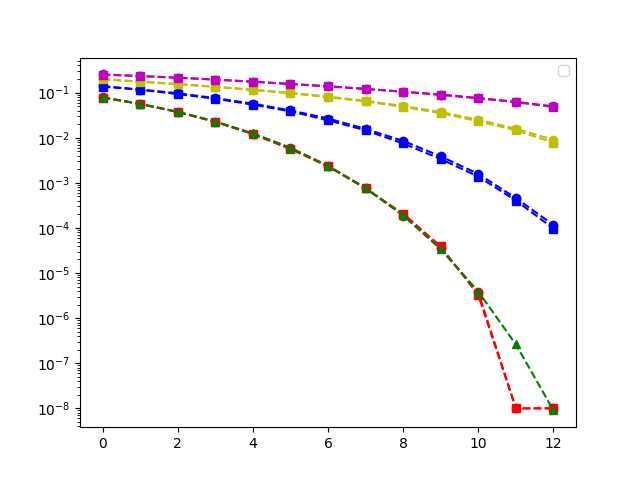
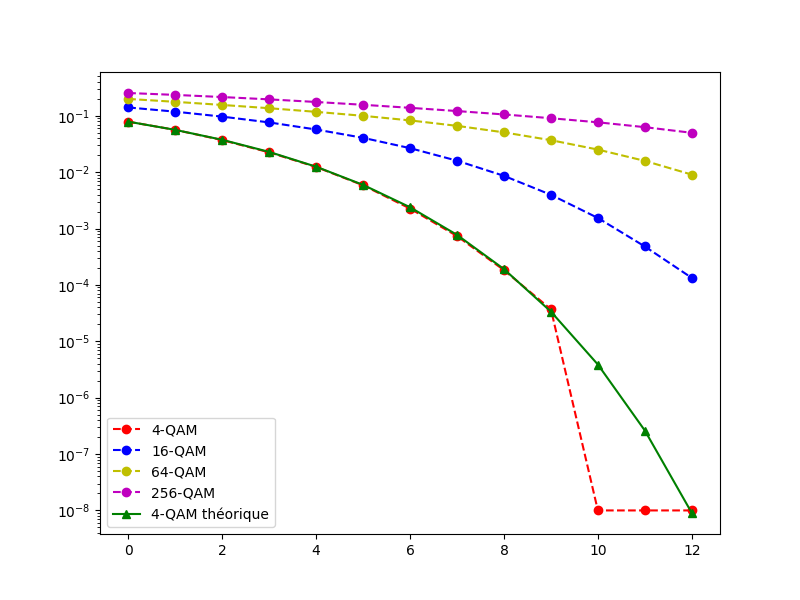
correction de bug, nouvelle simu et courbe

diff --git a/script.py b/script.py
@@ -14,7 +14,6 @@ github : https://github.com/AxFrancois/Numeric-Comm
 import math
 import sys
 import os
-import time
 import multiprocessing as mp
 import random
 
@@ -30,7 +29,7 @@ from scipy import special
 
 from header_tp_eti import bitstring_to_bytes_p3
 
-mysem = mp.Semaphore(1)
+mysem = mp.Semaphore(0)
 valempirique = mp.Array('f', range(13))  # []
 valempirique2 = mp.Array('f', range(13))  # []
 
@@ -228,6 +227,7 @@ def modulation_demodulation(codewords, h_enc_array, cyccode, valempirique, valem
             for i in range(len(M)):
                 modem = mod.QAMModem(M[i])
                 modulated = modem.modulate(code_test[j])
+                print("Calculs pour M = {}...".format(M[i]))
                 for isnr in EbSurN0:
                     pid = os.fork()
                     if pid == 0:  # Processus Fils
@@ -264,10 +264,6 @@ def modulation_demodulation(codewords, h_enc_array, cyccode, valempirique, valem
                             proba2 = result2[1]/len(demodulated) + 1e-8
                             # valempirique2.append(proba2)
                             valempirique2[isnr] = proba2
-                            print("Taux d'erreur sur une modulation avec M = {} et un Eb/N0 = {} : {} %".format(
-                                M[i], isnr, round(proba*100, 10)))
-                            print("Taux d'erreur après décodage cyclique : {} %".format(
-                                round(proba2*100, 10)))
                         else:
                             # valempirique2.append(proba)
                             valempirique2[isnr] = proba
@@ -277,15 +273,18 @@ def modulation_demodulation(codewords, h_enc_array, cyccode, valempirique, valem
                     mysem.acquire()
                 if j == 0:
                     plt.figure(1)
-
                     data1 = [i for i in valempirique]
+                    for index in range(len(data1)):
+                        print("Taux d'erreur sur une modulation avec M = {} et un Eb/N0 = {} : {} %".format(
+                            M[i], index, round(data1[index]*100, 10)))
+                        print("Taux d'erreur après décodage cyclique : {} %".format(
+                            round(valempirique2[index]*100, 10)))
                     plt.plot(EbSurN0, data1,
                              colors[i], label="{}-QAM".format(M[i]))
                     mylabel = "avec"
                 else:
                     mylabel = "sans"
                 plt.figure(2)
-
                 data2 = [i for i in valempirique2]
                 plt.plot(EbSurN0, data2, colors[(
                     j+1)*4+i], label="{}-QAM {} cycccode".format(M[i], mylabel))
@@ -294,7 +293,7 @@ def modulation_demodulation(codewords, h_enc_array, cyccode, valempirique, valem
         valtheorique = []
         for value in EbSurN0:
             valtheorique.append(1/2 * special.erfc(math.sqrt(10**(value/10))))
-        print(valtheorique)
+        print("4-QAM théorique : ", valtheorique)
         plt.figure(1)
         plt.plot(EbSurN0, valtheorique, 'g^-', label="4-QAM théorique")
         plt.legend(loc="lower left")
@@ -361,13 +360,19 @@ re-use it under the terms of the Project Gutenberg License included
 with this eBook or online at www.gutenberg.net
 """
 
-source_encode_decode(txt, valempirique, valempirique2, True,  True)
+returned_txt = source_encode_decode(
+    txt, valempirique, valempirique2, True,  True)
 
-h_enc_data = huffman_codec_data.encode(phrase)
-h_enc_data_str = ''.join(format(byte, '08b') for byte in h_enc_data)
+myinput = str(input("Souhaitez vous afficher le texte reçu ? (Y/n) > "))
+accept = ["Y", "y", "yes", "YES", "Yes"]
+if myinput in accept:
+    print(returned_txt)
+
+#h_enc_data = huffman_codec_data.encode(phrase)
+#h_enc_data_str = ''.join(format(byte, '08b') for byte in h_enc_data)
 
 # Q6
-h_dec_data = huffman_codec_data.decode(h_enc_data)
+#h_dec_data = huffman_codec_data.decode(h_enc_data)
 
 # Q7
 # https://stackoverflow.com/questions/39718576/convert-a-byte-array-to-single-bits-in-a-array-python-3-5
@@ -377,6 +382,7 @@ x = np.fromstring(mem, dtype=np.uint8)
 np.unpackbits(x).reshape(3, 8)
 
 # Q8
+"""
 phrasehuff_str = ""
 for letter in phrase:
     phrasehuff_str = phrasehuff_str + \
@@ -385,7 +391,7 @@ k = 4
 Njam = k - len(phrasehuff_str) % k
 phrasehuff_str = phrasehuff_str + '0'*Njam
 phrasehuff_bit = bitstring_to_bytes_p3(phrasehuff_str)
-
+"""
 
 #----------------------- TP2 -----------------------#
 # https://scikit-dsp-comm.readthedocs.io/en/latest/nb_examples/Block_Codes.html
